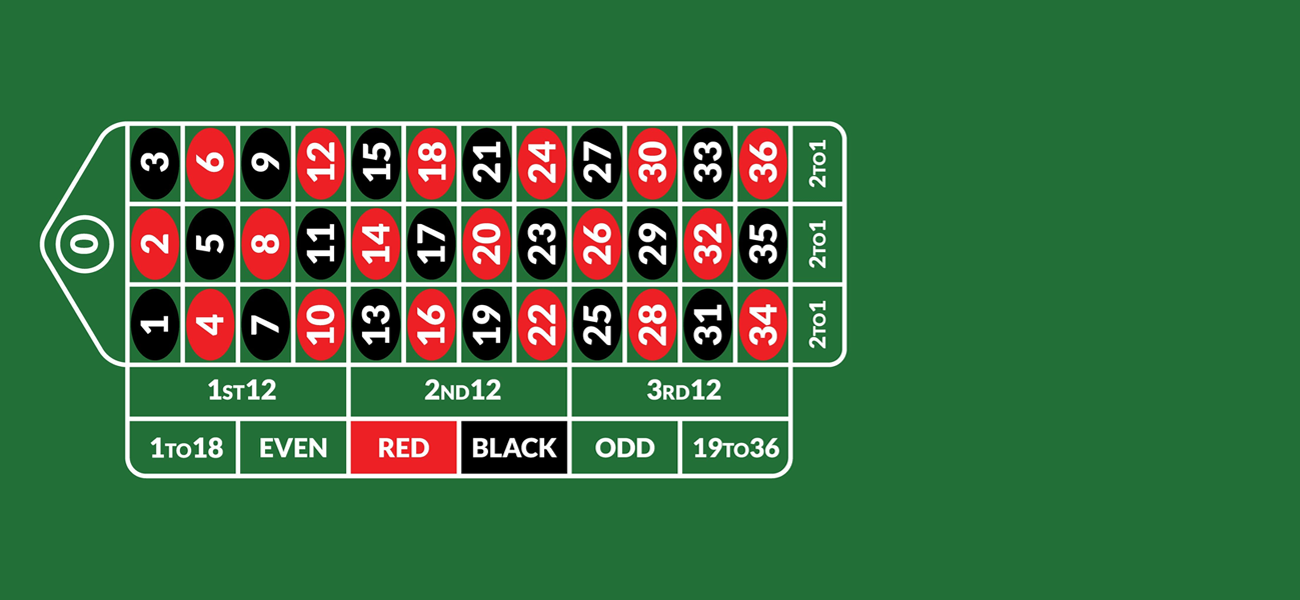
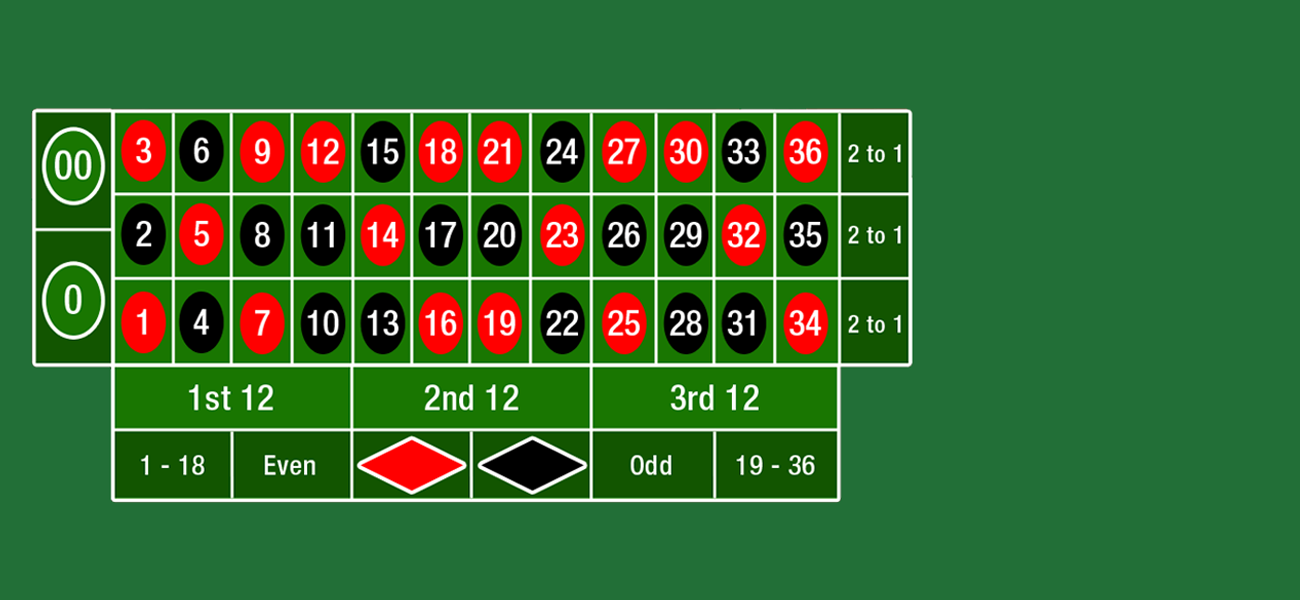
buttons

diff --git a/roulette.html b/roulette.html
@@ -17,8 +17,49 @@
     </div>
     <!--SCREEN-------------------------------------------------------->
     <div class="screen">
-        <img class="map" src="images/map.png">
+        <img class="map" src="images/rouletteTable.png">
         <a href="main.html"><img class="return" src="images/return.png"></a>
+        <div class="rouletteButtonContainer">
+            <button class="rouletteButton"></button>
+            <button class="rouletteButton"></button>
+            <button class="rouletteButton"></button>
+            <button class="rouletteButton"></button>
+            <button class="rouletteButton"></button>
+            <button class="rouletteButton"></button>
+            <button class="rouletteButton"></button>
+            <button class="rouletteButton"></button>
+            <button class="rouletteButton"></button>
+            <button class="rouletteButton"></button>
+            <button class="rouletteButton"></button>
+            <button class="rouletteButton"></button>
+            <button class="rouletteButton"></button>
+            <button class="rouletteButton"></button>
+            <button class="rouletteButton"></button>
+            <button class="rouletteButton"></button>
+            <button class="rouletteButton"></button>
+            <button class="rouletteButton"></button>
+            <button class="rouletteButton"></button>
+            <button class="rouletteButton"></button>
+            <button class="rouletteButton"></button>
+            <button class="rouletteButton"></button>
+            <button class="rouletteButton"></button>
+            <button class="rouletteButton"></button>
+            <button class="rouletteButton"></button>
+            <button class="rouletteButton"></button>
+            <button class="rouletteButton"></button>
+            <button class="rouletteButton"></button>
+            <button class="rouletteButton"></button>
+            <button class="rouletteButton"></button>
+            <button class="rouletteButton"></button>
+            <button class="rouletteButton"></button>
+            <button class="rouletteButton"></button>
+            <button class="rouletteButton"></button>
+            <button class="rouletteButton"></button>
+            <button class="rouletteButton"></button>
+            <button class="rouletteButton"></button>
+            <button class="rouletteButton"></button>
+            <button class="rouletteButton"></button>
+        </div>
     </div>
     <!--FOOTER-------------------------------------------------------->
     <hr>

diff --git a/casinoStyleSheet.css b/casinoStyleSheet.css
@@ -236,3 +236,24 @@ footer {
         height: auto;
         vertical-align: top;
 }
+
+.rouletteButton {
+    background-color: rgba(255, 255, 255, 0.2);
+    border: none;
+    border-radius: 5px;
+    cursor: pointer;
+}
+
+.rouletteButton:hover {
+    background-color: rgba(255, 255, 255, 0.5);
+}
+
+.rouletteButtonContainer {
+    top: 19.5%;
+    left: 9%;
+    position: relative;
+    display: grid;
+    grid-template-columns: repeat(13, calc(33.3% / 13 - 1px));
+    grid-gap: 3px;
+    height: 40%;
+}
